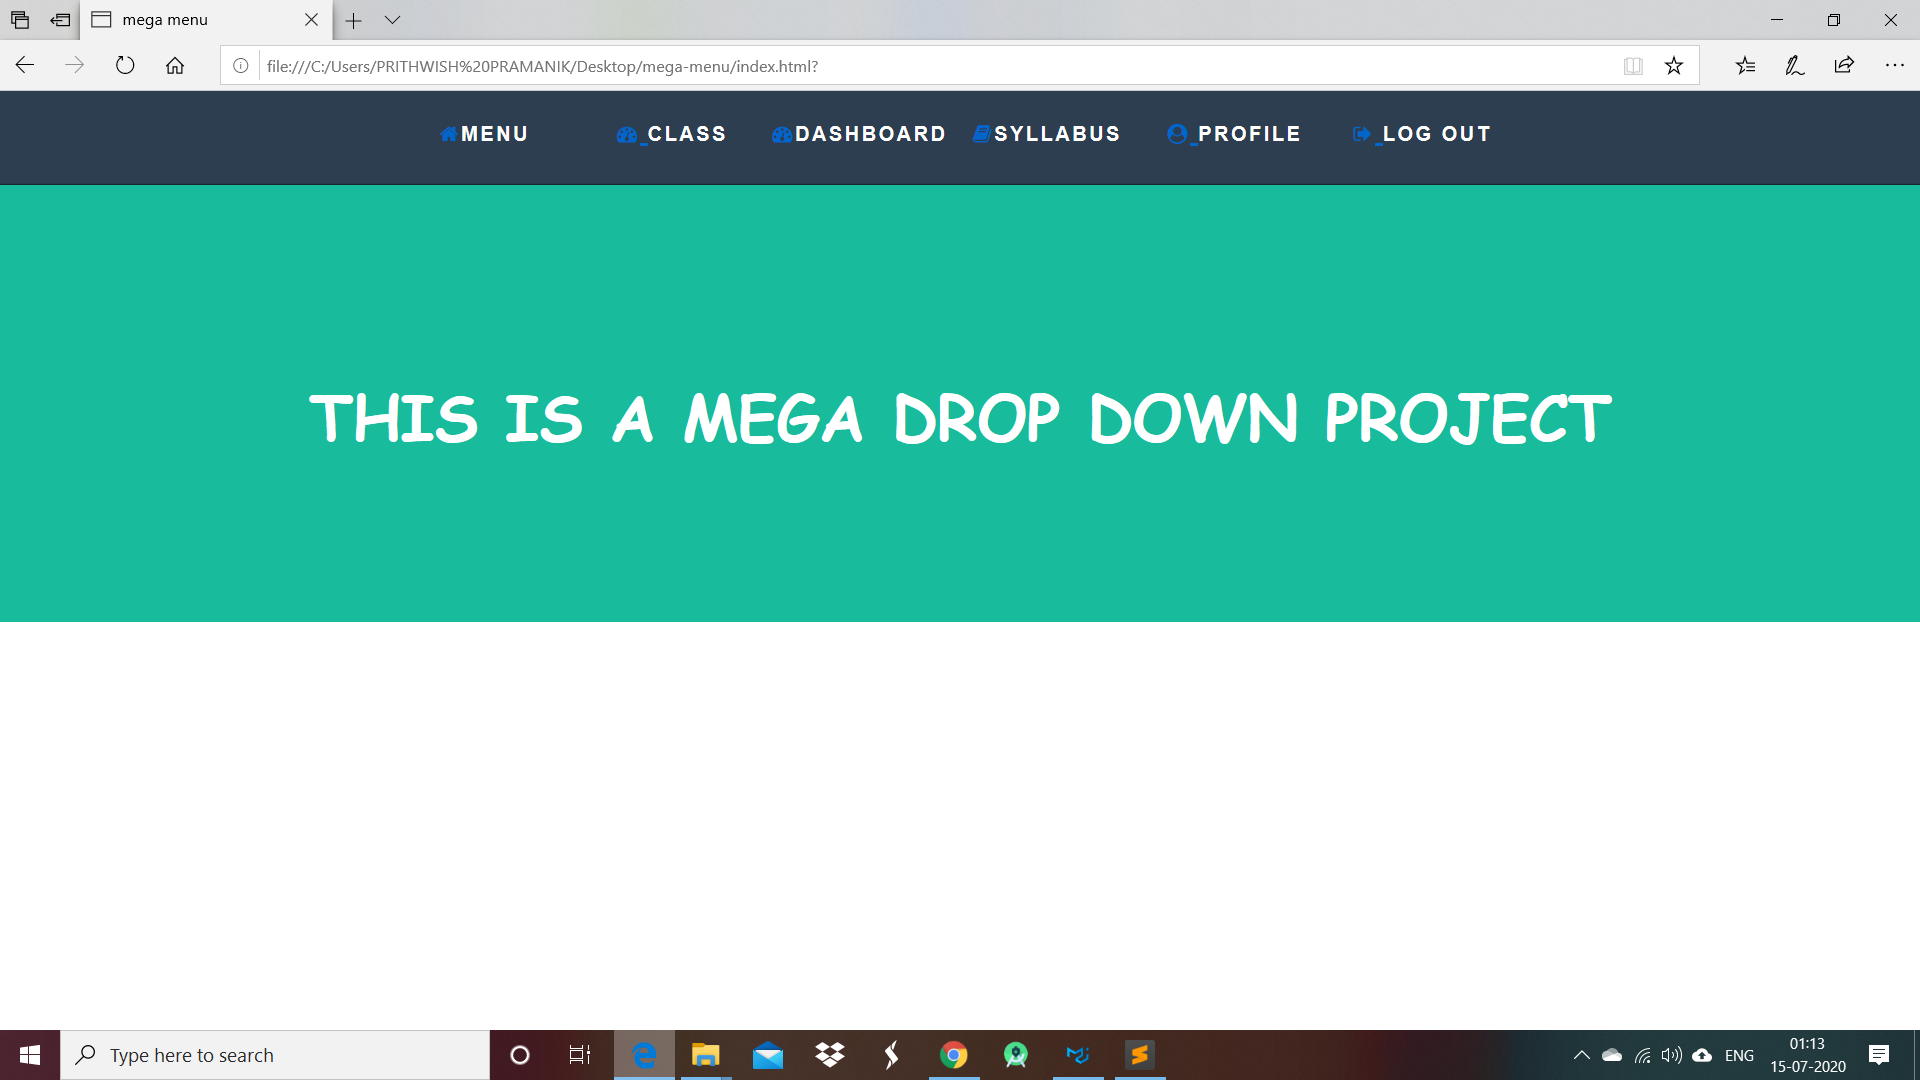
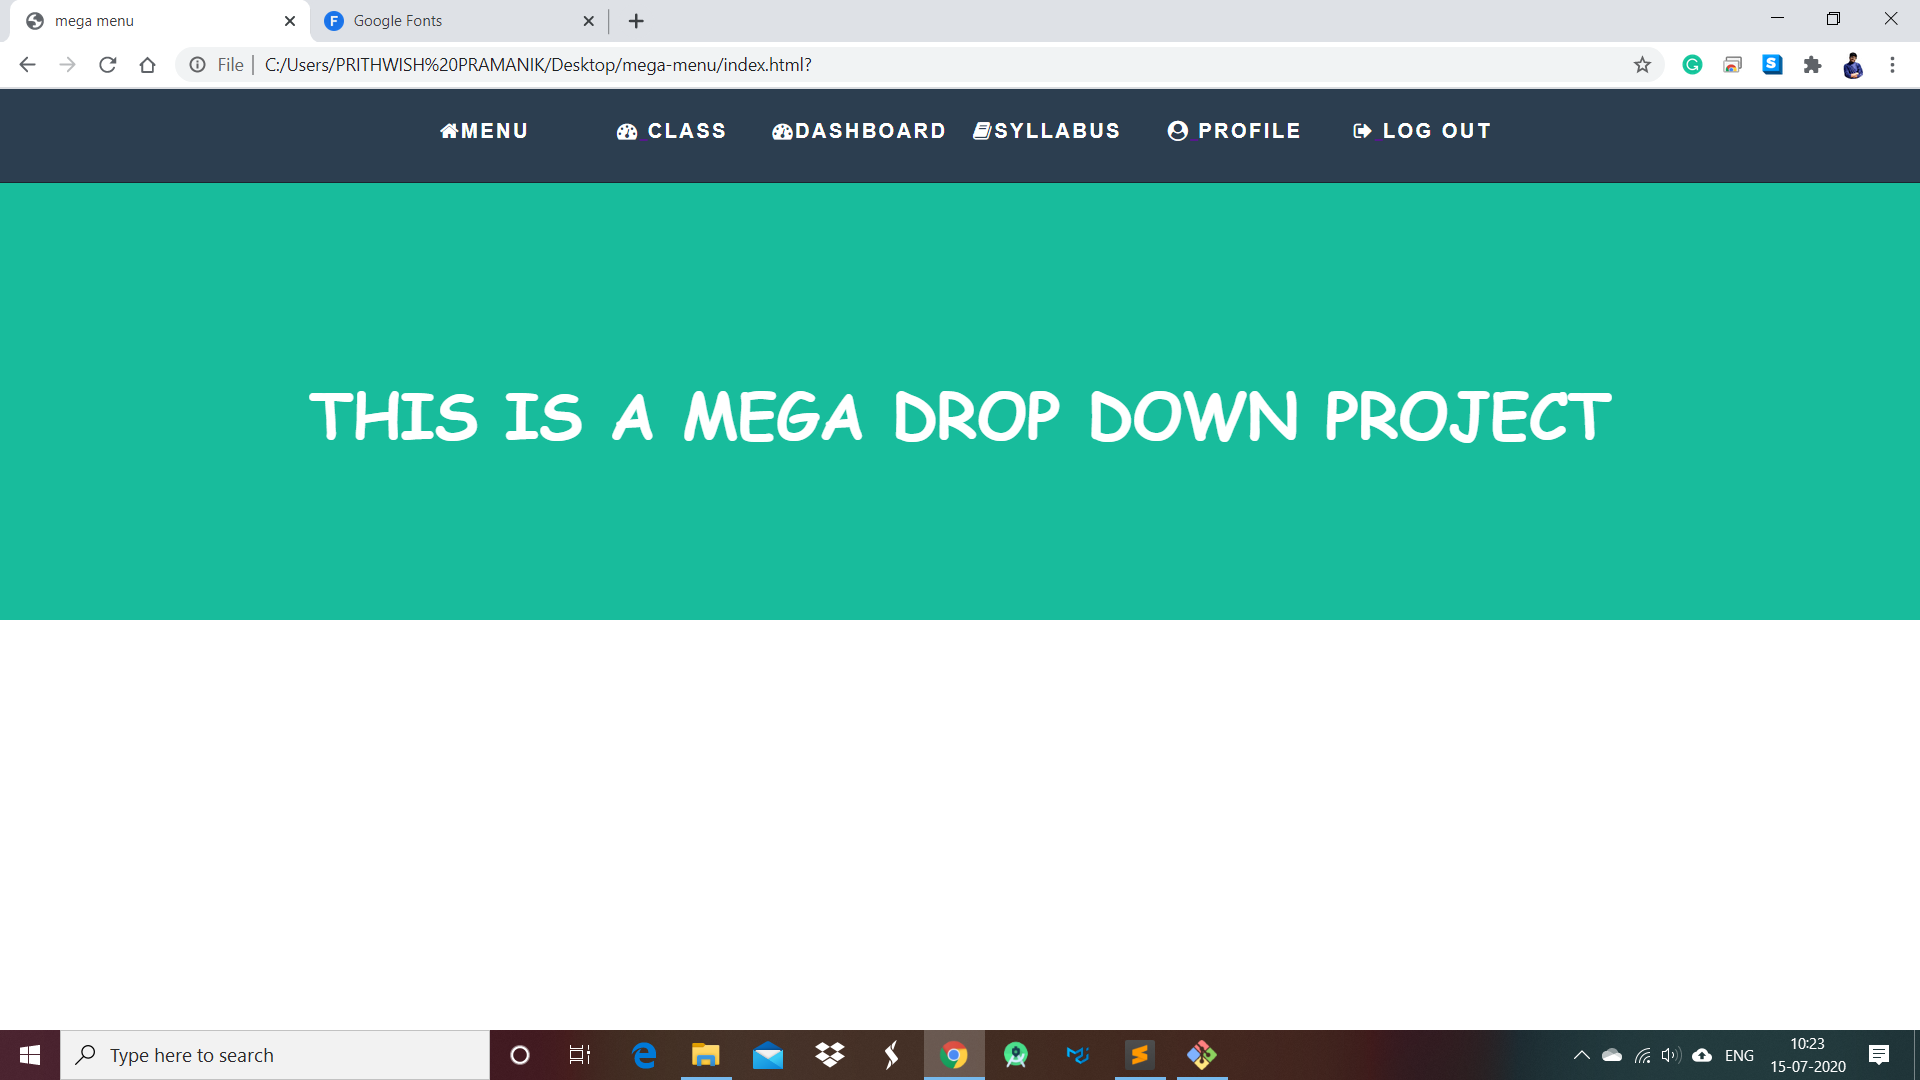
final

diff --git a/index.html b/index.html
@@ -19,7 +19,7 @@
 	<div class="container">
 		<nav class="navbar">
 			<ul>
-			<li><a href=""><span><i class="fa fa-home"></i></span></a>Menu
+			<li><a href=""><span><i style="color: white" class="fa fa-home"></i></span></a>Menu
 				<div class="mega">
 				  <div class="inner">
 				  	<p>mega item</p>
@@ -36,7 +36,7 @@
 				  </div>
 
 
-				  <div class="inner">
+				  <div class="inner" style="border-right: 2px solid yellow">
 				  	<p>mega item</p>
 				  	<p>mega item</p>
 				  	<p>mega item</p>
@@ -44,8 +44,10 @@
 				  </div>
 
 				  <div class="inner">
-				  	<p>
+				  
+				  		<div>
 				  		<form class="form">
+				  			<h1 style="font-family: 'Lobster', cursive;">Log in</h1><br>
 				  			<label>Name</label><br>
 				  			<input type="text" name="" value="" placeholder="name"><br>
 				  			<label>Email</label><br>
@@ -55,7 +57,8 @@
 				  			<input type="submit" name="" value="submit">
 
 				  		</form>
-				  	</p>
+				  	</div>
+				  	
 				  	
 				  </div>
 
@@ -63,11 +66,11 @@
 				</div>
 			</li>
 
-                <li><a href=""><span><i class="fa fa-tachometer"></i>&nbsp</span></a>class</li>
-				<li><a href=""><span><i class="fa fa-tachometer"></i></span></a>dashboard</li>
-				<li><a href=""><span><i class="fa fa-book"></i></span></a>syllabus</li>
-				<li><a href=""><span><i class="fa fa-user-circle"></i>&nbsp</span></a>profile</li>
-				<li><a href=""><span><i class="fa fa-sign-out"></i>&nbsp</span></a>log out</li>
+                <li><a href=""><span><i style="color: white" class="fa fa-tachometer"></i>&nbsp</span></a>class</li>
+				<li><a href=""><span><i style="color: white" class="fa fa-tachometer"></i></span></a>dashboard</li>
+				<li><a href=""><span><i style="color: white" class="fa fa-book"></i></span></a>syllabus</li>
+				<li><a href=""><span><i style="color: white" class="fa fa-user-circle"></i>&nbsp</span></a>profile</li>
+				<li><a href=""><span><i style="color: white"  class="fa fa-sign-out"></i>&nbsp</span></a>log out</li>
 			 </ul>
 		</nav>
 

diff --git a/style.css b/style.css
@@ -73,11 +73,11 @@ body{
 	position: absolute;
 	top: 65px;
 	left: 0;
-	width: 750px;
+	width: 850px;
 	height: 250px;
 	background: #2c3e50;
 	transition: all 1s ease;
-	padding: 40px;
+	padding: 10px;
 	box-sizing: border-box; 
 	color: white;
 	visibility: hidden;
@@ -122,7 +122,8 @@ body{
 		color: white;
 		border-radius: 5px;
 		font-size: 20px;
-		margin: 6px
+		margin: 1px;
+		width: 50%
     }
 
     input:focus{
@@ -132,6 +133,9 @@ body{
      
      input{
      	border-radius: 3px;
+     	border-style: none;
+     	width: 100%;
+     	height: 25px
      }
 
      .title{
@@ -146,6 +150,8 @@ body{
      	text-transform: uppercase;
 
      }
+
+
 
      
 
